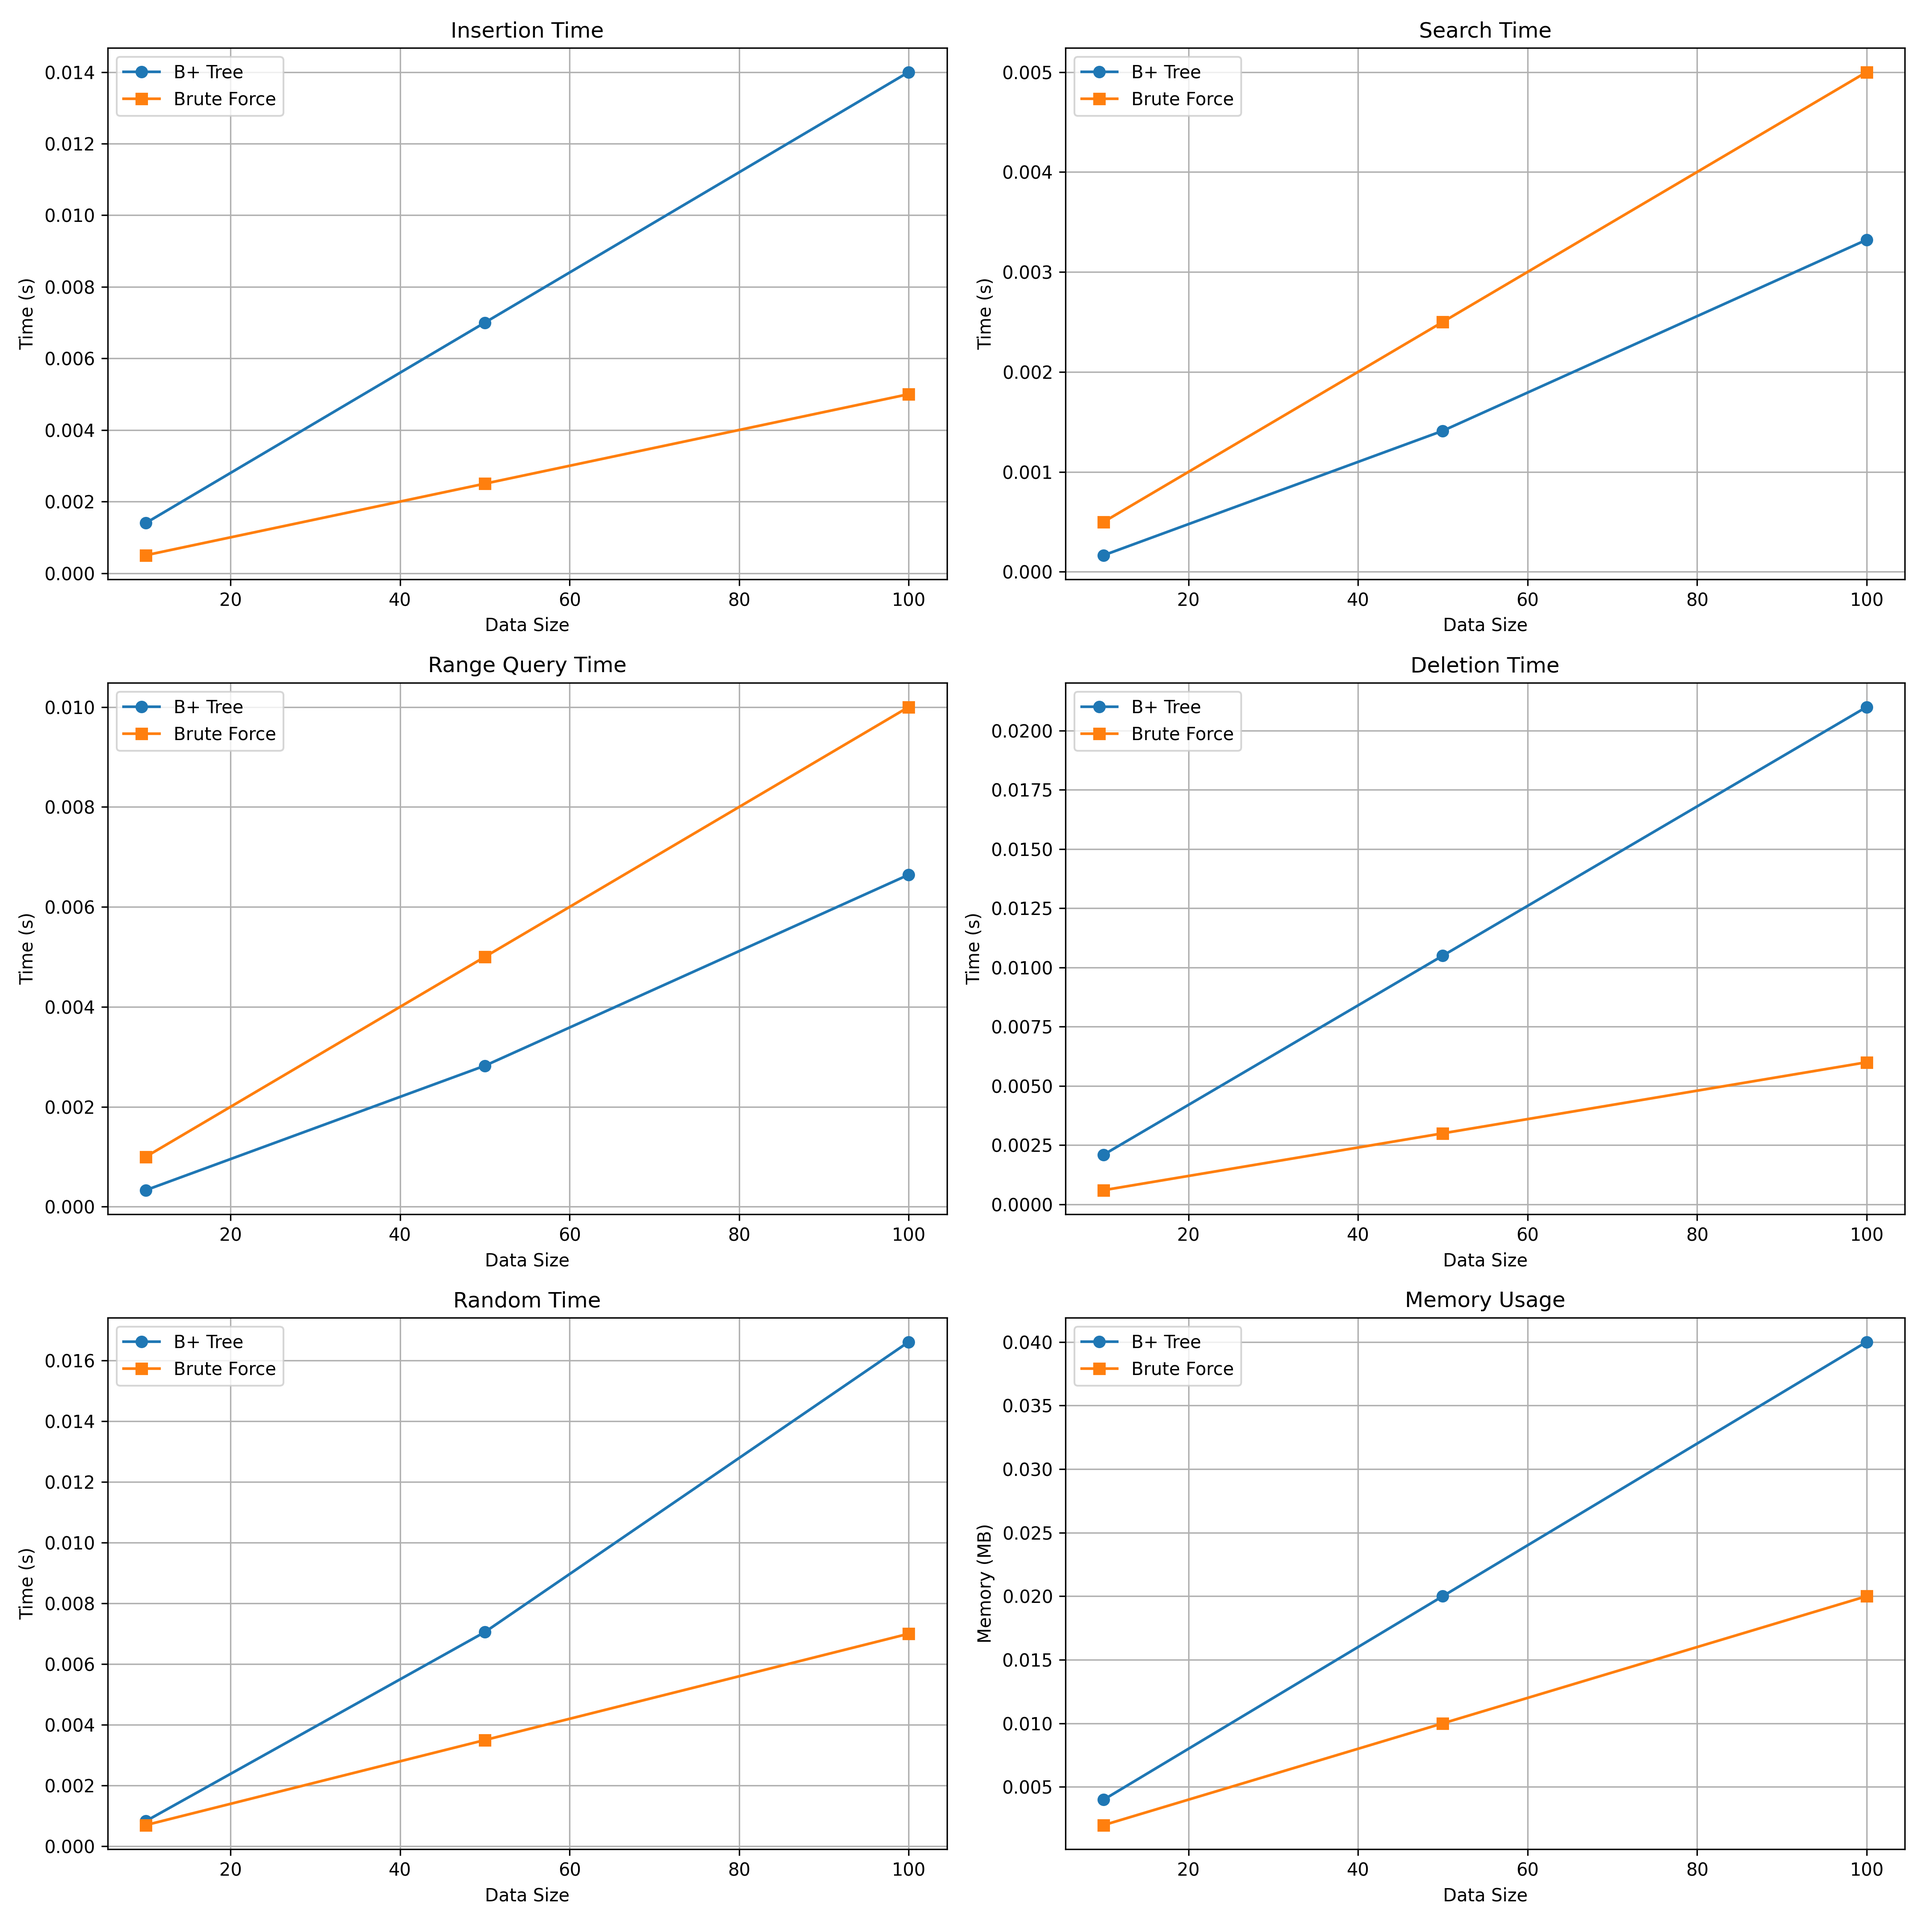
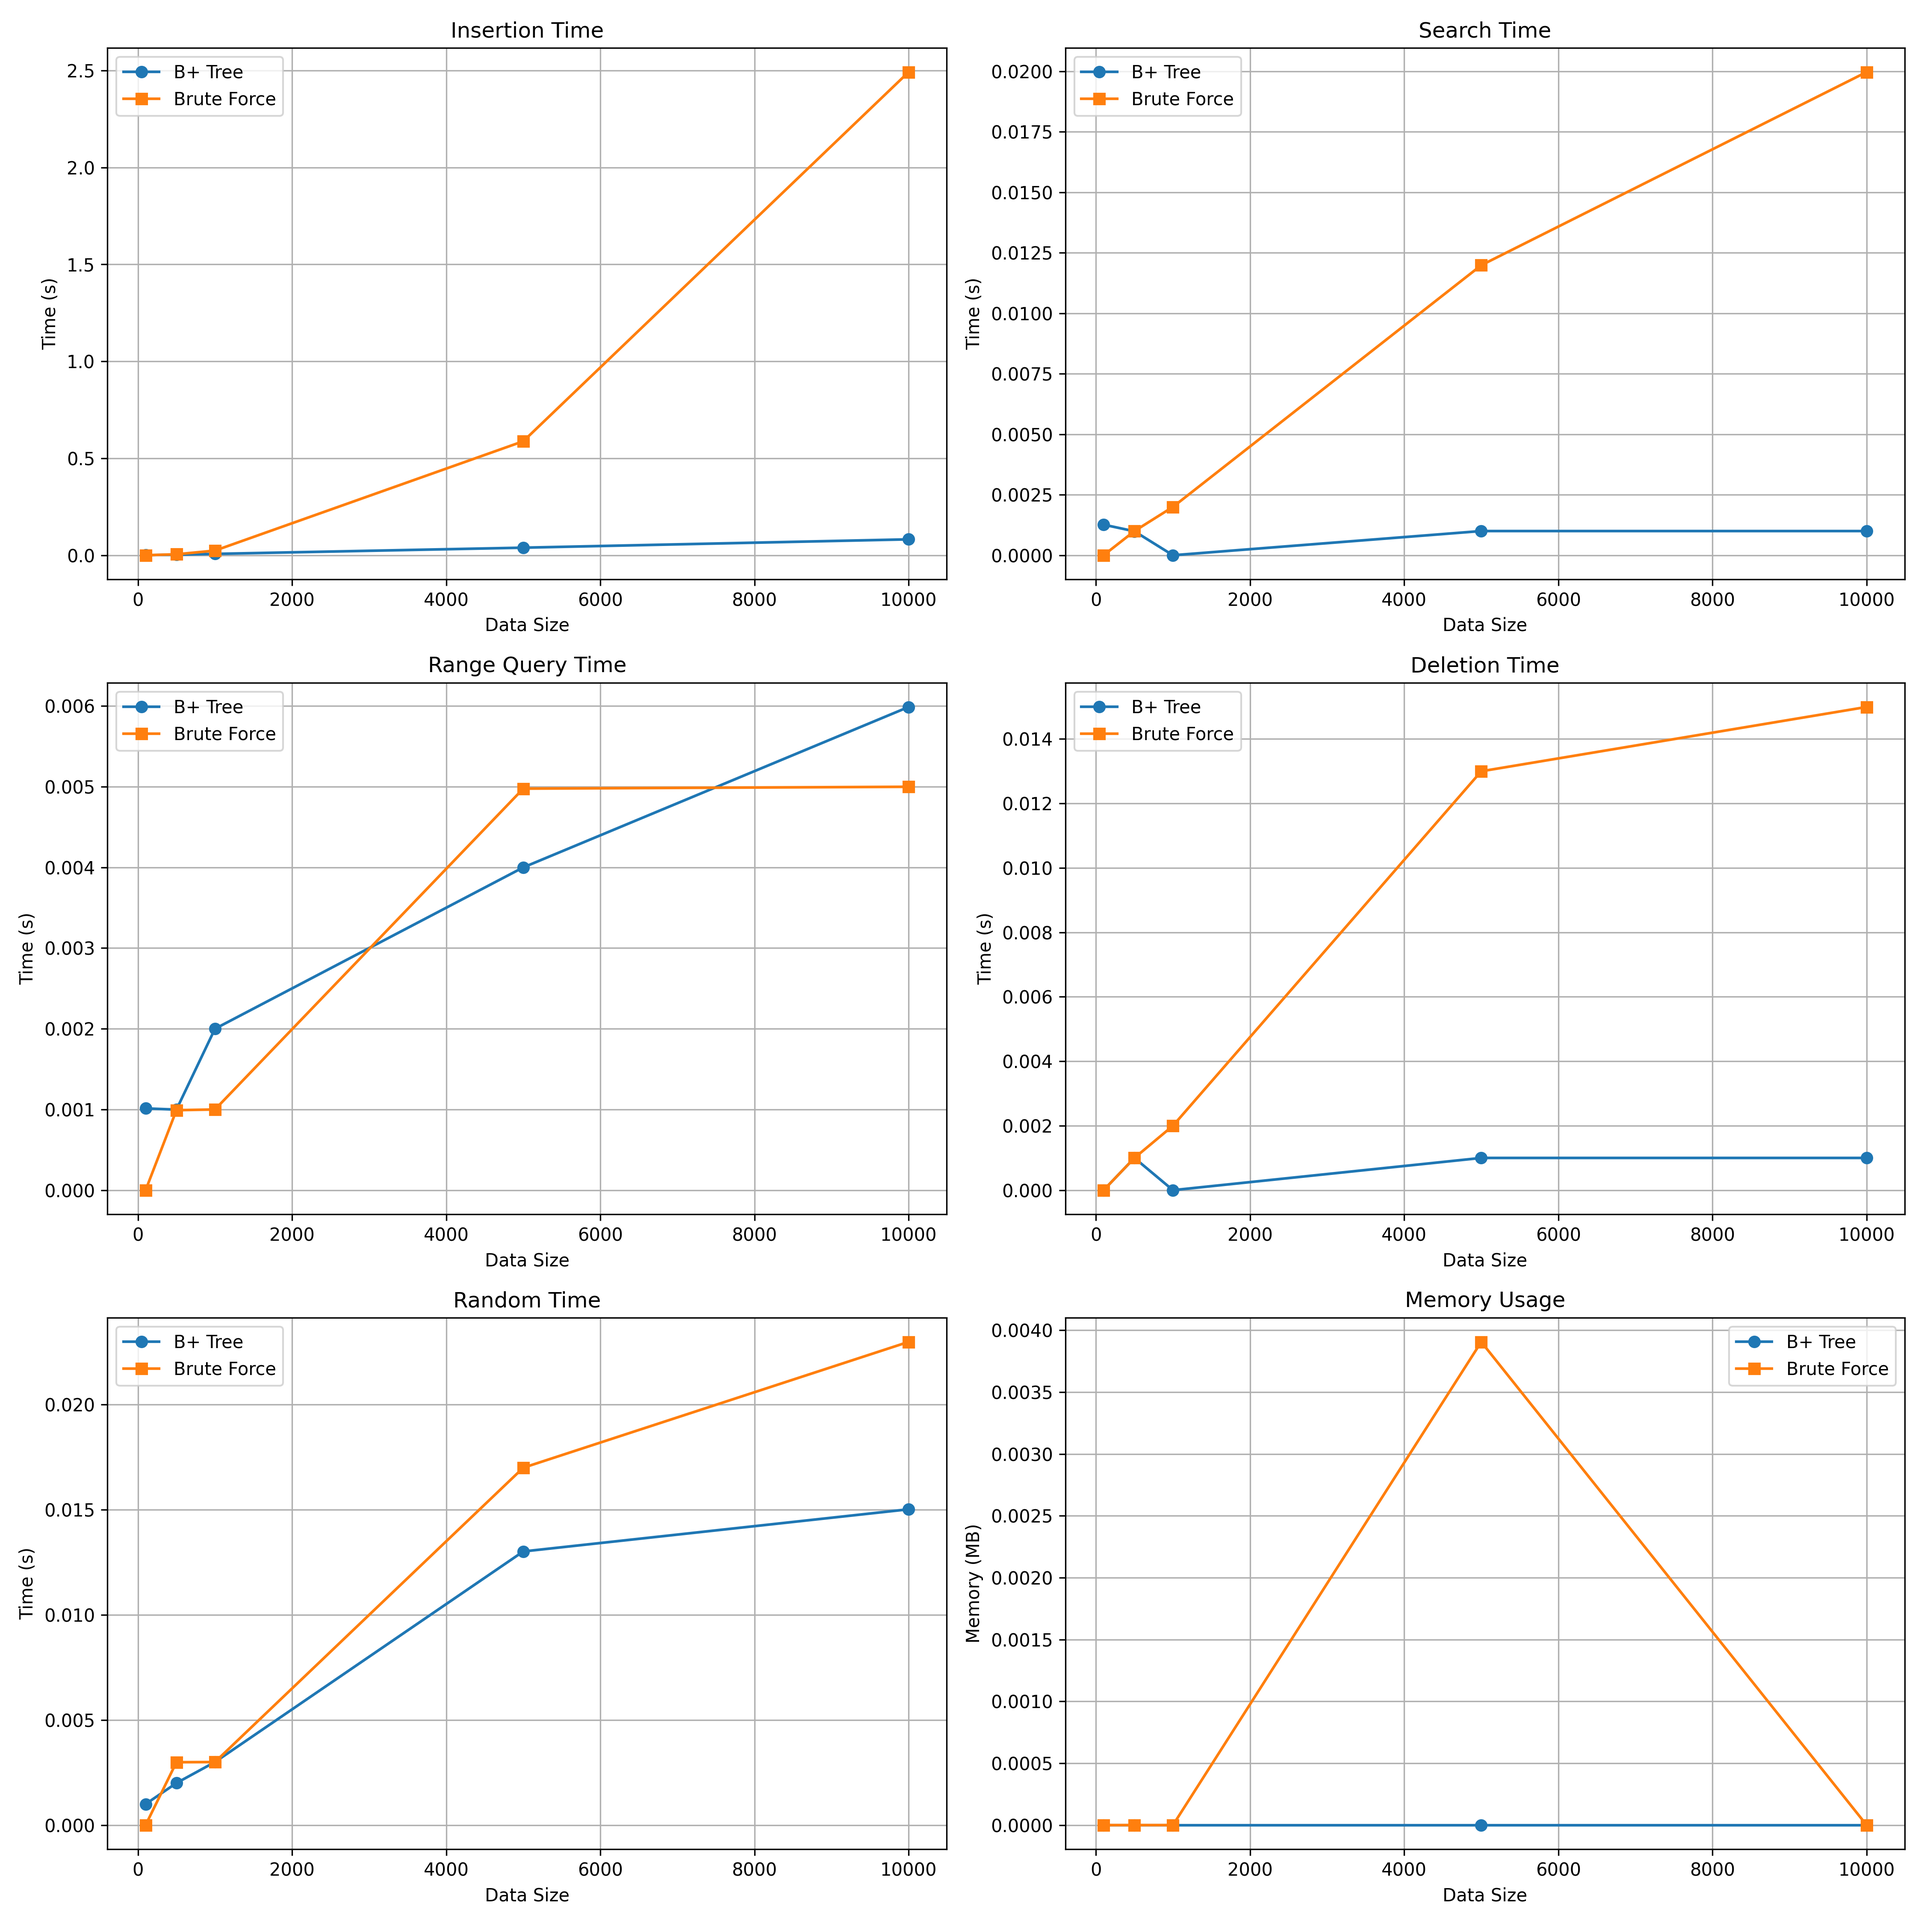
Made UI better

diff --git a/app.py b/app.py
@@ -573,75 +573,79 @@ def run_performance_test():
 
         # Get data sizes from form or use defaults
         if request.method == 'POST':
-            data_size_1 = int(request.form.get('data_size_1', 10))
-            data_size_2 = int(request.form.get('data_size_2', 50))
-            data_size_3 = int(request.form.get('data_size_3', 100))
+            # Check if custom sizes are provided
+            if request.form.get('custom_sizes'):
+                sizes_str = request.form.get('custom_sizes')
+                try:
+                    # Parse the custom sizes
+                    sizes = [int(size.strip()) for size in sizes_str.split(',')]
+                except ValueError:
+                    # If parsing fails, use default sizes
+                    sizes = [100, 500, 1000, 5000, 10000]
+            else:
+                data_size_1 = int(request.form.get('data_size_1', 10))
+                data_size_2 = int(request.form.get('data_size_2', 50))
+                data_size_3 = int(request.form.get('data_size_3', 100))
+                sizes = sorted([data_size_1, data_size_2, data_size_3])
+
             num_samples = int(request.form.get('num_samples', 1))
             tree_order = int(request.form.get('tree_order', 4))
         else:
-            data_size_1 = 10
-            data_size_2 = 50
-            data_size_3 = 100
+            # Use the specified sizes
+            sizes = [100, 500, 1000, 5000, 10000]
             num_samples = 1
             tree_order = 4
-
-        # Sort the data sizes
-        sizes = sorted([data_size_1, data_size_2, data_size_3])
 
         # Create a performance analyzer with the specified tree order
         analyzer = PerformanceAnalyzer(b_plus_tree_order=tree_order)
 
-        # If the data sizes are small, run actual benchmarks
-        if max(sizes) <= 200 and num_samples <= 2:
-            print(f"Running benchmarks for sizes {sizes} with {num_samples} samples...")
-            try:
-                # Initialize the results dictionary
-                analyzer.results = {
-                    'insertion': {'b_plus_tree': [], 'brute_force': []},
-                    'search': {'b_plus_tree': [], 'brute_force': []},
-                    'range_query': {'b_plus_tree': [], 'brute_force': []},
-                    'deletion': {'b_plus_tree': [], 'brute_force': []},
-                    'random': {'b_plus_tree': [], 'brute_force': []},
-                    'memory': {'b_plus_tree': [], 'brute_force': []}
-                }
+        # Run actual benchmarks for all sizes
+        # We've fixed the B+ Tree implementation to handle larger sizes
+        print(f"Running benchmarks for sizes {sizes} with {num_samples} samples...")
+        try:
+            # Initialize the results dictionary
+            analyzer.results = {
+                'insertion': {'b_plus_tree': [], 'brute_force': []},
+                'search': {'b_plus_tree': [], 'brute_force': []},
+                'range_query': {'b_plus_tree': [], 'brute_force': []},
+                'deletion': {'b_plus_tree': [], 'brute_force': []},
+                'random': {'b_plus_tree': [], 'brute_force': []},
+                'memory': {'b_plus_tree': [], 'brute_force': []}
+            }
 
-                # Run the benchmarks
-                results = analyzer.run_benchmarks(sizes, num_samples=num_samples)
-                print("Benchmarks completed.")
+            # Run the benchmarks
+            results = analyzer.run_benchmarks(sizes, num_samples=num_samples)
+            print("Benchmarks completed.")
 
-                # Create plots
-                fig, axs = plt.subplots(3, 2, figsize=(15, 15))
-                axs = axs.flatten()
+            # Create plots
+            fig, axs = plt.subplots(3, 2, figsize=(15, 15))
+            axs = axs.flatten()
 
-                operations = ['insertion', 'search', 'range_query', 'deletion', 'random']
+            operations = ['insertion', 'search', 'range_query', 'deletion', 'random']
 
-                # Plot time results
-                for i, operation in enumerate(operations):
-                    axs[i].plot(sizes, results[operation]['b_plus_tree'], 'o-', label='B+ Tree')
-                    axs[i].plot(sizes, results[operation]['brute_force'], 's-', label='Brute Force')
-                    axs[i].set_xlabel('Data Size')
-                    axs[i].set_ylabel('Time (s)')
-                    axs[i].set_title(f'{operation.replace("_", " ").title()} Time')
-                    axs[i].legend()
-                    axs[i].grid(True)
+            # Plot time results
+            for i, operation in enumerate(operations):
+                axs[i].plot(sizes, results[operation]['b_plus_tree'], 'o-', label='B+ Tree')
+                axs[i].plot(sizes, results[operation]['brute_force'], 's-', label='Brute Force')
+                axs[i].set_xlabel('Data Size')
+                axs[i].set_ylabel('Time (s)')
+                axs[i].set_title(f'{operation.replace("_", " ").title()} Time')
+                axs[i].legend()
+                axs[i].grid(True)
 
-                # Plot memory usage
-                axs[5].plot(sizes, results['memory']['b_plus_tree'], 'o-', label='B+ Tree')
-                axs[5].plot(sizes, results['memory']['brute_force'], 's-', label='Brute Force')
-                axs[5].set_xlabel('Data Size')
-                axs[5].set_ylabel('Memory (MB)')
-                axs[5].set_title('Memory Usage')
-                axs[5].legend()
-                axs[5].grid(True)
-            except Exception as e:
-                import traceback
-                print(f"Error running benchmarks: {str(e)}")
-                print(f"Traceback: {traceback.format_exc()}")
-                # Fall back to simulated data
-                return run_simulated_test(sizes, tree_order)
-        else:
-            # For larger data sizes or more samples, use simulated data
-            print(f"Using simulated data for sizes {sizes}...")
+            # Plot memory usage
+            axs[5].plot(sizes, results['memory']['b_plus_tree'], 'o-', label='B+ Tree')
+            axs[5].plot(sizes, results['memory']['brute_force'], 's-', label='Brute Force')
+            axs[5].set_xlabel('Data Size')
+            axs[5].set_ylabel('Memory (MB)')
+            axs[5].set_title('Memory Usage')
+            axs[5].legend()
+            axs[5].grid(True)
+        except Exception as e:
+            import traceback
+            print(f"Error running benchmarks: {str(e)}")
+            print(f"Traceback: {traceback.format_exc()}")
+            # Fall back to simulated data
             return run_simulated_test(sizes, tree_order)
 
         plt.tight_layout()

diff --git a/database/performance_analyzer.py b/database/performance_analyzer.py
@@ -148,14 +148,28 @@ class PerformanceAnalyzer:
 
         # Measure B+ Tree deletion time
         start_time = time.time()
-        for key in delete_keys:
-            b_plus_tree.delete(key)
+        try:
+            for key in delete_keys:
+                try:
+                    b_plus_tree.delete(key)
+                except Exception as e:
+                    print(f"Error deleting key {key} from B+ Tree: {e}")
+                    continue
+        except Exception as e:
+            print(f"Error in B+ Tree deletion benchmark: {e}")
         b_plus_tree_time = time.time() - start_time
 
         # Measure Brute Force DB deletion time
         start_time = time.time()
-        for key in delete_keys:
-            brute_force_db.delete(key)
+        try:
+            for key in delete_keys:
+                try:
+                    brute_force_db.delete(key)
+                except Exception as e:
+                    print(f"Error deleting key {key} from Brute Force DB: {e}")
+                    continue
+        except Exception as e:
+            print(f"Error in Brute Force DB deletion benchmark: {e}")
         brute_force_time = time.time() - start_time
 
         return b_plus_tree_time, brute_force_time
@@ -378,9 +392,15 @@ class PerformanceAnalyzer:
                 delete_keys = random.sample(keys, min(size, 100))
 
                 # Measure deletion time
-                b_plus_tree_time, brute_force_time = self.measure_deletion_time(keys, delete_keys)
-                b_plus_tree_deletion_times.append(b_plus_tree_time)
-                brute_force_deletion_times.append(brute_force_time)
+                try:
+                    b_plus_tree_time, brute_force_time = self.measure_deletion_time(keys, delete_keys)
+                    b_plus_tree_deletion_times.append(b_plus_tree_time)
+                    brute_force_deletion_times.append(brute_force_time)
+                except Exception as e:
+                    print(f"Error in deletion benchmark: {e}")
+                    # Use default values if the benchmark fails
+                    b_plus_tree_deletion_times.append(0.0)
+                    brute_force_deletion_times.append(0.0)
 
                 # Measure random operations time
                 b_plus_tree_time, brute_force_time = self.measure_random_operations_time(keys, min(size, 100))

diff --git a/database/bplustree.py b/database/bplustree.py
@@ -632,8 +632,8 @@ class BPlusTree:
             # If the parent is now underfilled, handle it recursively
             if underflow and len(parent.keys) > 0:  # Don't handle empty root
                 self._handle_underflow(parent)
-        else:
-            # Merge with the right sibling
+        elif node_index < len(parent.children) - 1:
+            # Merge with the right sibling if it exists
             right_sibling = parent.children[node_index + 1]
             if node.is_leaf:
                 node.merge_with_sibling(right_sibling, False)
@@ -646,6 +646,14 @@ class BPlusTree:
             # If the parent is now underfilled, handle it recursively
             if underflow and len(parent.keys) > 0:  # Don't handle empty root
                 self._handle_underflow(parent)
+        else:
+            # This is the rightmost child and has no siblings to merge with
+            # In this case, we need to handle the root specially
+            if parent == self.root and len(parent.keys) == 0:
+                # If the parent is the root and has no keys left, make this node the new root
+                self.root = node
+                node.parent = None
+                self.height -= 1
 
     def update(self, key: Any, value: Any) -> bool:
         """

diff --git a/database/bruteforce.py b/database/bruteforce.py
@@ -20,6 +20,10 @@ class BruteForceDB:
             key: The key to insert
             value: The value associated with the key
         """
+        for k, v in self.data.items():
+            if k == key:
+                self.data[k] = value
+                return
         self.data[key] = value
     
     def find(self, key: Any) -> Optional[Any]:
@@ -32,7 +36,9 @@ class BruteForceDB:
         Returns:
             The value associated with the key, or None if not found
         """
-        return self.data.get(key)
+        for k, v in self.data.items():
+            if k == key:
+                return v
     
     def range_query(self, start_key: Any, end_key: Any) -> List[Tuple[Any, Any]]:
         """
@@ -61,9 +67,10 @@ class BruteForceDB:
         Returns:
             True if the key was found and deleted, False otherwise
         """
-        if key in self.data:
-            del self.data[key]
-            return True
+        for k, v in self.data.items():
+            if k == key:
+                del self.data[k]
+                return True
         return False
     
     def update(self, key: Any, value: Any) -> bool:
